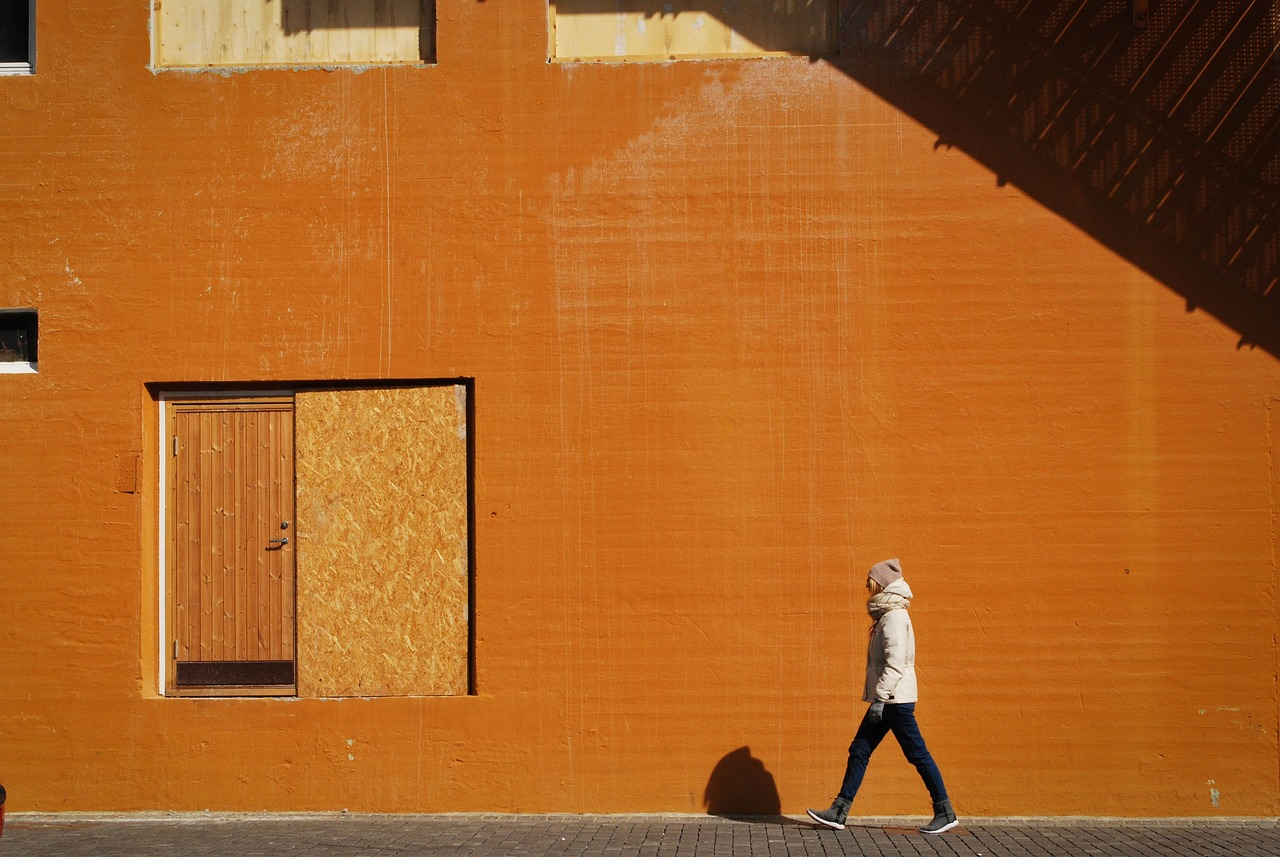
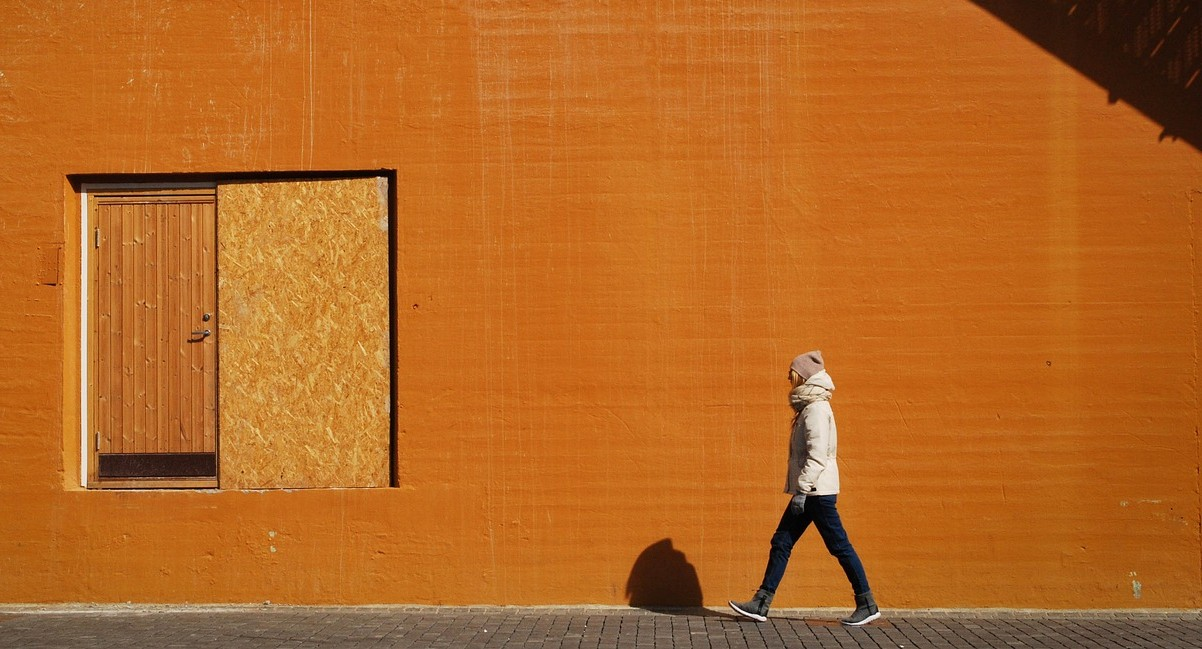
Clear section 3 and started again from the beginning in index.html

diff --git a/static/css/style.css b/static/css/style.css
@@ -377,77 +377,56 @@ header {
     height: 180px;
   }
 }
-
-/* ------------------------ Quote section - desktop --------------------------- */
+/* ------------------------ SECTION 3: Quote (target layout) --------------------------- */
 
 .quote-section {
-  position: relative;
-  padding-block: clamp(60px, 8vw, 120px);
-  color: #fff;
-
-  background-image: url("/static/images/hero-wall.jpg");
-  /* your image */
-  background-size: cover;
-  background-position: center;
-  background-repeat: no-repeat;
+  padding: 0; 
 }
 
-
-/* Make text appear above overlay */
 .quote-section .container {
+  width: 70%;
+  height: 600px;
+  background: url("/static/images/hero-wall.jpg") center / cover no-repeat;
   position: relative;
-  z-index: 2;
 }
 
-/* Center the quote text */
-.quote-section h2 {
-  font-size: clamp(2rem, 4vw, 3rem);
-  margin-bottom: 10px;
-}
-
-.quote-section p {
-  font-size: 1.2rem;
-  margin-bottom: 30px;
-}
-
-/* Card inside quote section */
-.quote-card {
-  max-width: 500px;
-  padding: 20px;
 
 
-  color: #111;
-}
-
-/* ------------------------ Join us section - desktop --------------------------- */
+/* ------------------------ SECTION 4: Join (split layout) --------------------------- */
 
 .join-section {
-  position: relative;
-  padding-block: clamp(60px, 8vw, 120px);
-  color: #fff;
+  padding-block: 32px;
+}
 
+.join-section .container {
+  display: grid;
+  grid-template-columns: 1.15fr 0.85fr; /* image left bigger */
+  min-height: 280px;
+  overflow: hidden;
+  padding: 0; /* important: remove padding so image is flush */
+}
+
+/* left side = image */
+.join-section .container::before {
+  content: "";
+  display: block;
   background-image: url("/static/images/hero-community.jpg");
-  /* your image */
   background-size: cover;
   background-position: center;
   background-repeat: no-repeat;
 }
 
-
-
-/* Content above overlay */
-.join-section .container {
-  position: relative;
-  z-index: 2;
-}
-
-/* Join card */
+/* right side = black content panel */
 .join-card {
-  max-width: 600px;
-  padding: 28px;
-  background: rgba(0, 0, 0, 0.65);
-  backdrop-filter: blur(6px);
+  padding: 24px;
+  background: rgba(0,0,0,0.8);
+  color: #fff;
+  display: flex;
+  flex-direction: column;
+  justify-content: center;
 }
+
+
 
 
 /* ------------------------ Footer - desktop  --------------------------- */
